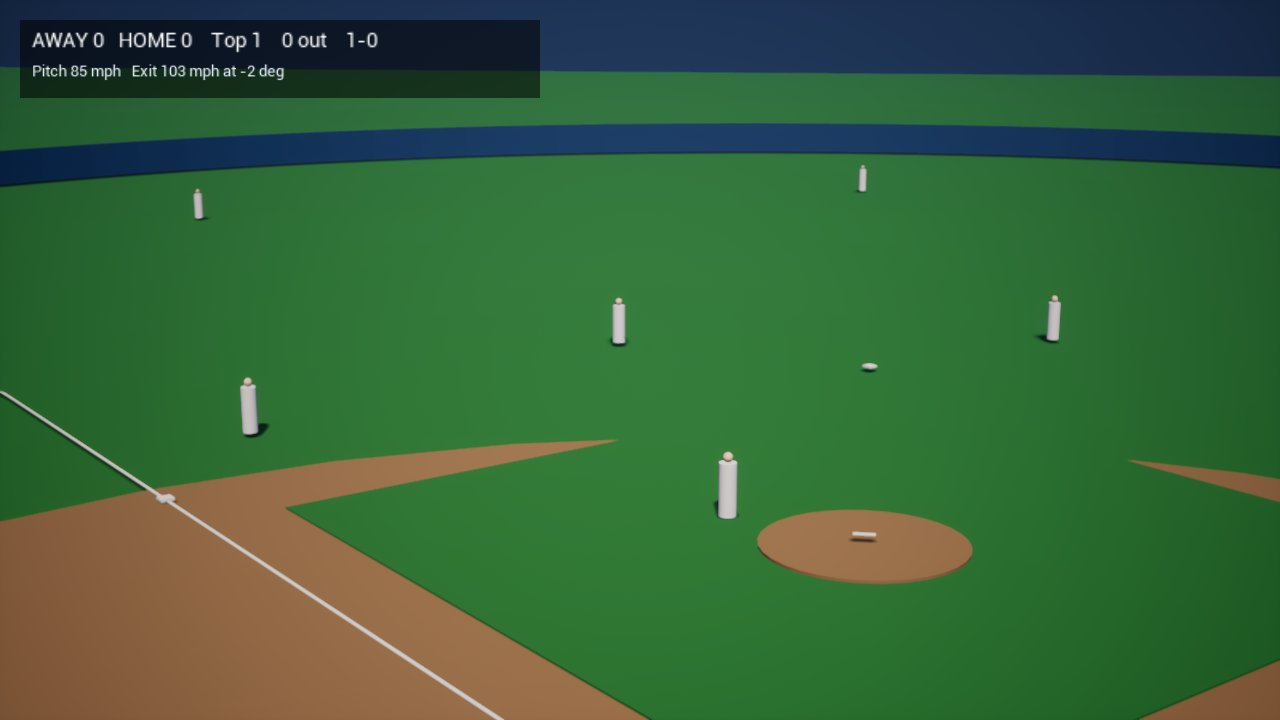
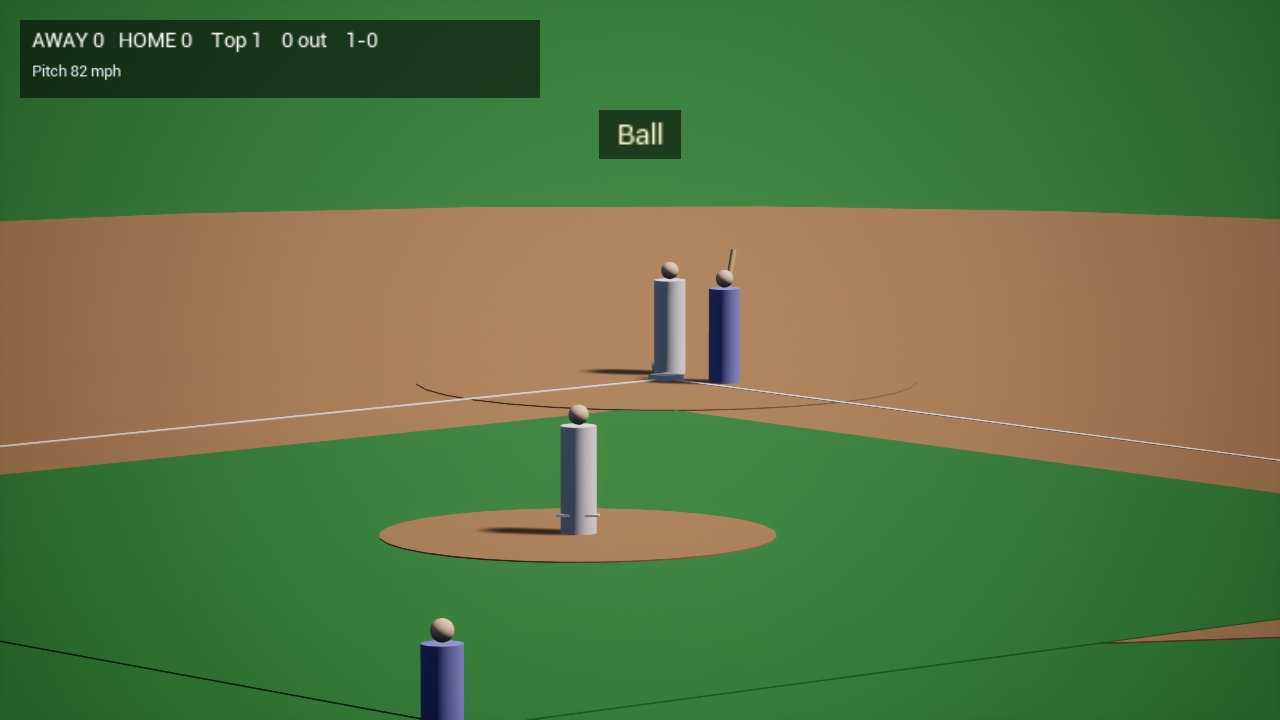
Client: center-field pitch camera cutting to a follow camera, sun and haze set for both, flat ground layers; spike doc updated

diff --git a/client/Source/BaseballClient/BbDirector.cpp b/client/Source/BaseballClient/BbDirector.cpp
@@ -9,6 +9,7 @@
 #include "Components/SkyLightComponent.h"
 #include "Components/StaticMeshComponent.h"
 #include "Engine/DirectionalLight.h"
+#include "Engine/ExponentialHeightFog.h"
 #include "Engine/SkyLight.h"
 #include "Engine/StaticMesh.h"
 #include "Engine/StaticMeshActor.h"
@@ -71,10 +72,22 @@ void ABbDirector::BuildLights()
 	UWorld* W = GetWorld();
 	// The template map may bring its own sky and sun; only add what is missing.
 	TArray<AActor*> Found;
+	// No distance haze: the pitch camera looks down 140 m of field through a long lens.
+	UGameplayStatics::GetAllActorsOfClass(W, AExponentialHeightFog::StaticClass(), Found);
+	for (AActor* A : Found)
+	{
+		A->Destroy();
+	}
+	Found.Reset();
 	UGameplayStatics::GetAllActorsOfClass(W, ADirectionalLight::StaticClass(), Found);
+	// An early-afternoon sun over the third-base side lights both camera angles.
+	for (AActor* A : Found)
+	{
+		A->SetActorRotation(FRotator(-55.f, 100.f, 0.f));
+	}
 	if (Found.Num() == 0)
 	{
-		ADirectionalLight* Sun = W->SpawnActor<ADirectionalLight>(FVector(0, 0, 5000), FRotator(-50.f, 35.f, 0.f));
+		ADirectionalLight* Sun = W->SpawnActor<ADirectionalLight>(FVector(0, 0, 5000), FRotator(-55.f, 100.f, 0.f));
 		Sun->GetLightComponent()->SetMobility(EComponentMobility::Movable);
 		Sun->GetLightComponent()->SetIntensity(6.f);
 		if (UDirectionalLightComponent* D = Cast<UDirectionalLightComponent>(Sun->GetLightComponent()))
@@ -102,14 +115,19 @@ void ABbDirector::BuildLights()
 void ABbDirector::BuildField()
 {
 	// Engine primitives are 100 cm across (the plane is 100 × 100 cm).
-	// Layers from the bottom, each a few centimetres above the last so none of them fight.
-	Shape(Plane, ToUE(0, 60, -0.20), FVector(400, 400, 1), Grass);
+	// Ground layers from the bottom, a centimetre or two apart so none of them fight; they
+	// cast no shadows, so their edges do not show as dark rims.
+	auto Flat = [this](UStaticMesh* Mesh, const FVector& At, const FVector& Scale, const FLinearColor& Color, const FRotator& Rot = FRotator::ZeroRotator)
+	{
+		Shape(Mesh, At, Scale, Color, Rot)->GetStaticMeshComponent()->SetCastShadow(false);
+	};
+	Flat(Plane, ToUE(0, 60, -0.06), FVector(400, 400, 1), Grass);
 	// Infield dirt: a flat disc of the sim's dirt radius (95 ft).
-	Shape(Cylinder, ToUE(0, 0, -0.15), FVector(2 * 95 * FT, 2 * 95 * FT, 0.1), Dirt);
-	// Grass inside the base paths, then the mound and the home-plate circle.
-	Shape(Cube, ToUE(0, BASE * 0.7071, -0.10), FVector(BASE * 0.82, BASE * 0.82, 0.1), Grass, FRotator(0, 45, 0));
-	Shape(Cylinder, ToUE(0, 18.44, -0.05), FVector(5.5, 5.5, 0.15), Dirt);
-	Shape(Cylinder, ToUE(0, 0, -0.06), FVector(8.0, 8.0, 0.1), Dirt);
+	Flat(Cylinder, ToUE(0, 0, -0.045), FVector(2 * 95 * FT, 2 * 95 * FT, 0.02), Dirt);
+	// Grass inside the base paths, then the home-plate circle and the mound.
+	Flat(Cube, ToUE(0, BASE * 0.7071, -0.03), FVector(BASE * 0.82, BASE * 0.82, 0.02), Grass, FRotator(0, 45, 0));
+	Flat(Cylinder, ToUE(0, 0, -0.015), FVector(8.0, 8.0, 0.02), Dirt);
+	Flat(Cylinder, ToUE(0, 18.44, -0.005), FVector(5.5, 5.5, 0.02), Dirt);
 	// Bases and home plate.
 	const double Bx[4] = { 0, BASE * 0.7071, 0, -BASE * 0.7071 };
 	const double By[4] = { 0, BASE * 0.7071, BASE * 1.4142, BASE * 0.7071 };
@@ -180,13 +198,13 @@ void ABbDirector::BeginPlay()
 	// little thicker than real so the swing reads from the stands.
 	Bat = Shape(Cylinder, FVector::ZeroVector, FVector(0.09, 0.09, 0.86), FLinearColor(0.75f, 0.55f, 0.3f));
 
-	Camera = GetWorld()->SpawnActor<ACameraActor>(ToUE(0, -30, 17), FRotator::ZeroRotator);
-	Camera->GetCameraComponent()->SetFieldOfView(60.f);
+	Camera = GetWorld()->SpawnActor<ACameraActor>(ToUE(-9, 136, 16), FRotator::ZeroRotator);
+	Camera->GetCameraComponent()->SetFieldOfView(8.5f);
 	Camera->GetCameraComponent()->bConstrainAspectRatio = false;
 	// Fixed exposure, a little under the default: daylight on flat colors.
 	Camera->GetCameraComponent()->PostProcessSettings.bOverride_AutoExposureBias = true;
 	Camera->GetCameraComponent()->PostProcessSettings.AutoExposureBias = -0.7f;
-	CamLook = ToUE(0, 16, 0);
+	CamLook = ToUE(0, 6, 1.0);
 	if (APlayerController* PC = GetWorld()->GetFirstPlayerController())
 	{
 		PC->SetViewTarget(Camera);
@@ -248,17 +266,26 @@ void ABbDirector::BeginPlayback(FBbPlay&& Play)
 
 void ABbDirector::UpdateCamera(const BbFrame& Frame, float DeltaSeconds)
 {
-	const FVector BallUE = ToUE(Frame.ball);
-	// Once the ball is hit past the mound side of the plate, follow it; otherwise frame the
-	// pitcher-to-plate line from behind home.
-	const bool bFollow = bBallInPlay;
-	const FVector Target = bFollow ? FVector(BallUE.X, BallUE.Y, FMath::Min(BallUE.Z, 1500.0) * 0.5) : ToUE(0, 16, 0);
-	CamLook = FMath::VInterpTo(CamLook, Target, DeltaSeconds, bFollow ? 4.f : 2.f);
-	const FVector Eye = Camera->GetActorLocation();
-	Camera->SetActorRotation((CamLook - Eye).Rotation());
-	const float WantFov = bFollow ? 42.f : 58.f;
+	// Two cameras, cut like a broadcast: the pitch from beyond center field through a long
+	// lens, then the play from high behind home, following the ball.
 	UCameraComponent* C = Camera->GetCameraComponent();
-	C->SetFieldOfView(FMath::FInterpTo(C->FieldOfView, WantFov, DeltaSeconds, 2.f));
+	const bool bFollow = bBallInPlay;
+	if (bFollow != bFollowCam)
+	{
+		bFollowCam = bFollow;
+		const FVector BallNow = ToUE(Frame.ball);
+		Camera->SetActorLocation(bFollow ? ToUE(0, -30, 17) : ToUE(-9, 136, 16));
+		CamLook = bFollow ? FVector(BallNow.X, BallNow.Y, 0.0) : ToUE(0, 6, 1.0);
+		C->SetFieldOfView(bFollow ? 48.f : 8.5f);
+	}
+	if (bFollow)
+	{
+		const FVector BallUE = ToUE(Frame.ball);
+		const FVector Target(BallUE.X, BallUE.Y, FMath::Min(BallUE.Z, 1500.0) * 0.5);
+		CamLook = FMath::VInterpTo(CamLook, Target, DeltaSeconds, 4.f);
+		C->SetFieldOfView(FMath::FInterpTo(C->FieldOfView, 42.f, DeltaSeconds, 2.f));
+	}
+	Camera->SetActorRotation((CamLook - Camera->GetActorLocation()).Rotation());
 }
 
 void ABbDirector::Tick(float DeltaSeconds)

diff --git a/client/Source/BaseballClient/BbDirector.h b/client/Source/BaseballClient/BbDirector.h
@@ -72,6 +72,7 @@ private:
 
 	FVector CamLook = FVector::ZeroVector;
 	bool bBallInPlay = false;
+	bool bFollowCam = false;
 
 	// Unattended checks.
 	int32 ShotsLeft = 0;

diff --git a/docs/reviews/2026-11-11-codex-client-v0-review.md b/docs/reviews/2026-11-11-codex-client-v0-review.md
@@ -1,0 +1,75 @@
+# Independent review: client v0 and realized timelines
+
+Reviewed `2c1d4ef..4a94bc2` (`bdd1e43`, `4a94bc2`) against the binding invariants in `CLAUDE.md` and `PLAN.md`. Locations below refer to `4a94bc2`. No P1 defect found; recording preserved outcomes and event-log bytes in the executed comparisons. Unreal runtime behavior was inspected in code, not independently exercised in the engine.
+
+## Findings
+
+### F1 — P2: Short blobs abort the host instead of returning an error
+
+**Location:** `sim/crates/bb_ffi/src/lib.rs:131–139` (`timeline`), shared by both new exports.
+
+**Executed scenario:** Pass a readable seven-byte allocation and a valid output pointer to either `bb_timeline_info` or `bb_timeline_sample`. Both processes abort with exit status 134: FlatBuffers' `buffer_has_identifier` asserts that the buffer contains at least eight bytes, and the panic cannot unwind across `extern "C"`. Null pointers and the existing 64-byte junk test do not cover this. This is an input-validation crash, not demonstrated memory corruption. Rust's safety comments restrict callers to returned blobs, but the C header promises error returns for bad arguments/non-timelines without stating that restriction.
+
+**Suggested fix:** Reject `len < 8` before checking the identifier; check null output pointers before parsing. Keep the verified `flatbuffers::root` path. Clarify that callers must supply a live, readable allocation of the stated length. Prefer a slice-taking parser whose returned timeline lifetime is tied to that slice, rather than the current safe helper with an unconstrained lifetime.
+
+### F2 — P2: The realized timeline can end before the decisive catch or fence crossing
+
+**Location:** `sim/crates/bb_game/src/game.rs:256–260`; `sim/crates/bb_game/src/timeline.rs:161–167`. Recording terminates before the final state in `live.rs:1363–1390`.
+
+**Executed scenario:** Seed 7, play 22 ends with a fly catch at `4.150634 s`, but the encoded duration and final ball knot are `4.133968 s`. The last displayed ball is still airborne at `(7.189, 78.627, 0.264) m`; the client holds that frame, then advances the inning. Seed 0, play 37 similarly finishes before the receiving fielder secures the throw that produces the force out. Seed 0, play 10 stops at `5.169711 s`, before the home-run fence crossing at `5.177964 s`.
+
+The live loop breaks on the terminating event before recording it. Further downsampling with `step_by(2)` can discard another final sample, and duration is then derived from those incomplete samples. This newly authoritative playback track omits the moment that explains the scoreboard change.
+
+**Suggested fix:** Record the terminal ball and actor states on every exit, preserve first/last/event samples during downsampling, and derive duration from the complete play interval. Encode the possession/dead-ball transition at its actual timestamp so the final frame shows the completed play.
+
+### F3 — P2: Awarded runners have no recorded journey to their awarded bases
+
+**Location:** `sim/crates/bb_game/src/game.rs:200–206,239–265`; `sim/crates/bb_game/src/timeline.rs:84–96,161–167`.
+
+**Executed scenario:** Seed 0, play 10 awards batter 258 a home run, but his last root sample is near first base at `(18.729, 20.066, 0) m`. He never rounds the remaining bases and disappears for the next batter. Seed 6, play 187 is a hit batter: there are no moving actor tracks, so batter 260 stays in the box for the entire `0.504187 s` clip, then appears on first in the next timeline. Walks use the same standing-only path. This is distinct from the missing terminal sample: retaining the final live tick cannot provide the missing awarded movement.
+
+**Suggested fix:** Produce sim-authored movement tracks for dead-ball awards, including forced advances and home-run completion, and extend playback duration accordingly. Keep that continuation observational: it must not alter rules outcomes, event-log contents, or RNG consumption. Supply explicit actor completion/visibility semantics when a runner scores or leaves the play.
+
+### F4 — P2: Moving batter tracks replace the batting-box position before contact
+
+**Location:** `sim/crates/bb_game/src/timeline.rs:84–96`; `sim/crates/bb_ffi/src/lib.rs:220–225`.
+
+**Executed scenario:** Seed 7, play 1 records standing position `(-0.75, 0.2, 0) m`. Its live root track starts at contact, `0.406973 s`, at `(0, 0, 0)`. Sampling at release returns that future root position because the encoder discards `standing` whenever movement exists and the sampler clamps earlier times to the first root knot. Play 8 repeats this. The batter therefore changes starting location depending on whether the upcoming pitch will be hit, with a roughly `0.78 m` snap relative to ordinary pitches.
+
+**Suggested fix:** Preserve standing roots from release through contact, and make the physical transition from the batting box onto the running path continuous. Merely interpolating from a release knot to the current first live knot would make the batter drift before contact; the movement model and recording need a consistent starting position and time.
+
+### F5 — P3: Central-difference Hermite tangents pull a ground ball underground before pickup
+
+**Location:** `sim/crates/bb_game/src/timeline.rs:42–54`.
+
+**Executed scenario:** Seed 0, play 37, sampled through the C ABI at approximately `1.965 s`, has ball-center height `-0.04994 m`. The surrounding recorded ground-ball positions at `1.944130 s` and `1.977463 s` both have height `0.036888 m`, the ball radius. The next sample, after pickup, jumps to hand height `1.2 m`; using it in the preceding central-difference tangent causes the earlier Hermite interval to dip below the turf. Thus accurate sampled positions alone do not ensure a physically valid playback curve.
+
+**Suggested fix:** Preserve mode/possession transitions and one-sided physical velocities at those boundaries instead of fitting one smooth flight spline across ground, pickup, holding, and throwing. Use additional event knots where necessary; a client-side height clamp would conceal the incorrect trajectory rather than preserve authoritative physics.
+
+### F6 — P3: The report confirms the full spike gate beyond what its measurements establish
+
+**Location:** `docs/unreal-spike.md:3,12–15`; binding criterion in `PLAN.md §3.3`.
+
+**Code/document-derived scenario:** The opening says the spike passes and D6 is confirmed against all criteria, while the table explicitly says the editor's desktop window was not checked. The binding criterion includes the editor opening and playing a capsule timeline smoothly. Offscreen game throughput and headless editor initialization establish useful parts of that gate, but do not establish the interactive editor experience. An average of 290–310 fps also does not establish uniformly smooth playback when measured post-warm-up frames reach 110–130 ms; the table appropriately discloses those hitches.
+
+**Suggested fix:** Qualify the conclusion as the measured offscreen/runtime and build checks passing, with interactive editor playback and owner watchability review pending. Retain the disclosed hitches and resolution. After the desktop check, record its conditions and result before claiming the complete gate is satisfied.
+
+## Viewer priorities
+
+The three sim-side fixes I would prioritize for watchability are **F2** (show the catch/force/fence crossing that explains the result), **F3** (show awarded runners reaching their destinations), and **F4** (keep the batter in a consistent place until contact). These are timeline/model issues; camera, mesh, or animation polish cannot recover the missing or contradictory data.
+
+## Verification
+
+- Read `CLAUDE.md` first and inspected the commit diff, relevant rules/live-play code, schemas, C header, client lifecycle, and `PLAN.md §3.3`. Concurrent working-tree edits appeared during review; authoritative verification was rerun from `git archive 4a94bc2` extracted to `/tmp/bb-review-4a94bc2`. Those edits were left untouched. All temporary probe sources and logs are under `/tmp`.
+- Ran `cargo test --workspace --release` against that snapshot: **105 passed, 0 failed, 0 ignored**. This includes determinism, recording invariance, and both FFI tests. The initial attempt hit a read-only Zig cache; reruns set `ZIG_GLOBAL_CACHE_DIR` and `ZIG_LOCAL_CACHE_DIR` under `/tmp`. The existing Cargo target cache was reused.
+- A separate release probe compared `Game::new(seed, false)` with `Game::new(seed, true)` for seeds **0–9**, completing **2,239 pitches**. Scores, entire event-log byte vectors, and digests matched for every seed. The same probe encoded timelines and inspected/sample-checked the scenarios above.
+- C compilation with static layout assertions and Rust size/alignment checks agreed: `BbActor` **20 bytes**, `BbFrame` **336 bytes**, `BbPlayInfo` **28 bytes**, all aligned to four bytes. Checked actor position/yaw offsets **4/16**, frame count/actors offsets **12/16**, and play-info telemetry offset **16**. No layout mismatch found in this commit.
+- A constructed valid timeline with two contiguous linear Hermite segments sampled correctly before, exactly at, and after their shared boundary. Negative times and infinities selected the appropriate endpoints. NaN returned success and the first position, without propagating NaNs in this finite fixture; that policy is undocumented, but no UB was observed. Twenty actor tracks returned exactly sixteen actors and preserved an adjacent output canary. Eight-byte bad-identifier and invalid-root buffers returned `-1`. Separate short-buffer subprocesses reproduced F1 in both exports.
+- Real recorded contact joins for seeds 0–9 had a maximum position discontinuity of **0.07635 m**: seed 3, play 183, across a **1.993 ms** gap. The pitch encoder drops knots after contact without inserting the exact pitch contact endpoint, so the sampler briefly freezes before switching to the realized contact knot. This is smaller than the viewer priorities above; adding the exact endpoint would remove it. The first realized ball sample itself was at contact in these probes, rather than a large post-contact gap.
+- Four ten-game C ABI runs advanced, freed every blob, checked final scores/status, called advance again after game over, and destroyed each game successfully. Warm runs took **1.798–1.821 s per ten games** (about **180–182 ms/game**), emitting **33,572,628 bytes** total, about **3.36 MB/game**. Equivalent nonrecording `Game` + timeline-encode runs took **1.750–2.071 s per ten games** and emitted **31,004,876 bytes**. These local timings do not establish a systematic recording slowdown. A separate probe of the retained `GameResult.viz` buffers measured **1.66–2.43 MB/game** of pitch/ball/actor sample capacity, excluding container/string overhead; `res.viz.push(viz.clone())` retains history the streaming C client does not consume until game destruction. No growth across games was inferred or leak claimed.
+- Client code inspection found no race in the current call graph: only one `Next` mutates the game; `Sample` verifies/reads a separate immutable blob and does not access the game. Current-blob release follows sampling on the game thread. `EndPlay` joins/consumes the pending future, frees its blob and the current blob, then destroys the game and unloads the library. The invalid end-of-game play stops further requests. `FBbPlay` is copyable despite its “move-only” comment, but the present manual ownership paths do not double-free it.
+- Frame conversion is correct: swapping X/Y changes handedness, and sim heading `(sin(yaw), cos(yaw), 0)` maps to Unreal heading `(cos(yaw), sin(yaw), 0)`. The positive Unreal yaw sign in `BbFrame.h` is therefore correct. No Unreal build, screenshots, GUI playback, sanitizer, or Miri run was performed; engine/runtime conclusions are limited accordingly.
+
+## Resolution
+
+Open.

diff --git a/docs/unreal-spike.md b/docs/unreal-spike.md
@@ -21,7 +21,7 @@ Build parallelism is capped at 6 actions in `~/.config/Unreal Engine/UnrealBuild
 - `client/`: a C++-only Unreal project. **No binary assets**, so Git LFS is still not needed. The field (grass, infield dirt, mound, bases, foul lines and poles, the outfield wall on the sim's fence curve) is built at start-up from the engine's basic shapes; players are a cylinder and a sphere each, colored by team; the ball is drawn three times its real size.
 - The sim is loaded at run time (`libbb_ffi.so`, `BbSim.cpp`) and runs on a worker thread, one pitch ahead of what is on screen. The client decides nothing about the game.
 - `BbFrame.h` is the only place sim coordinates become Unreal coordinates (`ue = 100 × (y, x, z)`).
-- A camera behind home that follows balls in play, and a text scoreboard (score, inning, outs, count, pitch speed, exit speed and launch angle).
+- A text scoreboard (score, inning, outs, count, pitch speed, exit speed and launch angle).
 - Sim side (`bdd1e43`): timelines carry the realized ball (fielded, held, thrown) and a root track for every fielder, runner and the batter; `bb_timeline_info` and `bb_timeline_sample` let a client play a timeline without a FlatBuffers parser.
 
 ## Running it
@@ -33,11 +33,17 @@ client/run.sh 11 -BbSpeed=2
 
 Unattended: add `-RenderOffscreen -BbShots=6` (screenshots to `client/Saved/Shots`, then quit) or `-RenderOffscreen -BbBenchSeconds=60` (logs a `BB_RESULT` line with frame rate and memory, then quits). The engine is expected at `~/UnrealEngine/5.8.4` (`UE_ROOT` overrides).
 
+## Added after the spike (same day)
+
+- A line of play-by-play for every pitch ("Called strike", "Ground out to short", "Double to right, 1 run scores"), built in the sim (`bb_game::describe`) and shown when the viewer would know it.
+- The bat: the executed swing is in the timeline and the client draws it; the batter stands in his box until contact.
+- Two cameras cut like a broadcast: the pitch from beyond center field through a long lens, the play from high behind home following the ball.
+
 ## Known gaps in v0
 
-- Players do not turn to face anything, swing, or throw: they slide. There is no bat.
+- Players are capsules that slide: no facing, no throwing or catching motion, no pitcher's delivery.
 - Between pitches everyone snaps back to his starting spot; the ball is not returned to the pitcher.
-- The scoreboard shows the state after the current pitch once it ends; there are no names, no runners-on display, no line score.
-- One camera. The ball is hard to see on deep flies.
+- The scoreboard has no names, no runners-on display, no line score.
+- The ball is hard to see on deep flies.
 - The park dimensions are repeated in the client (`BbDirector.cpp`) instead of coming from the sim.
 - The client samples through C structs. The spec's plan (data-formats §6.4) is for the client to read the FlatBuffers timeline directly; the sampler is a deliberate shortcut and the timeline blob is still the only data crossing the boundary.
